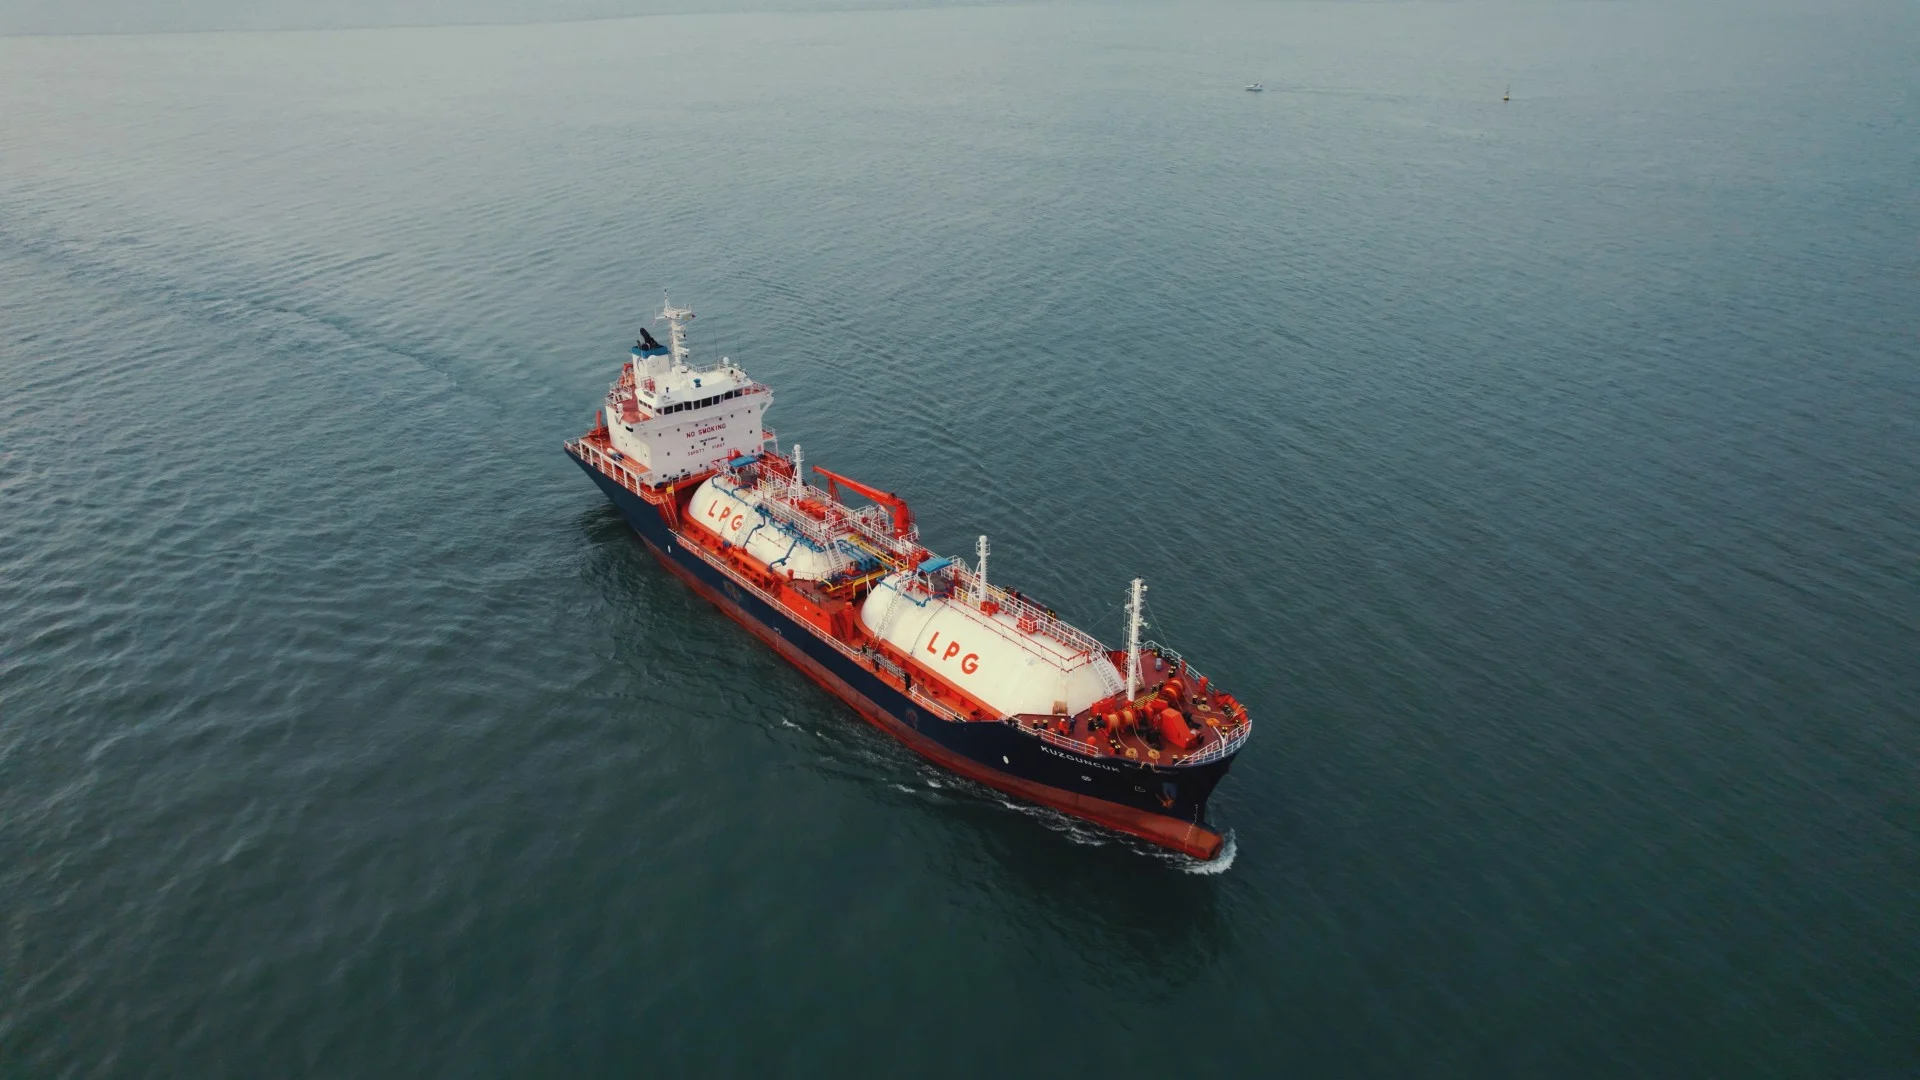
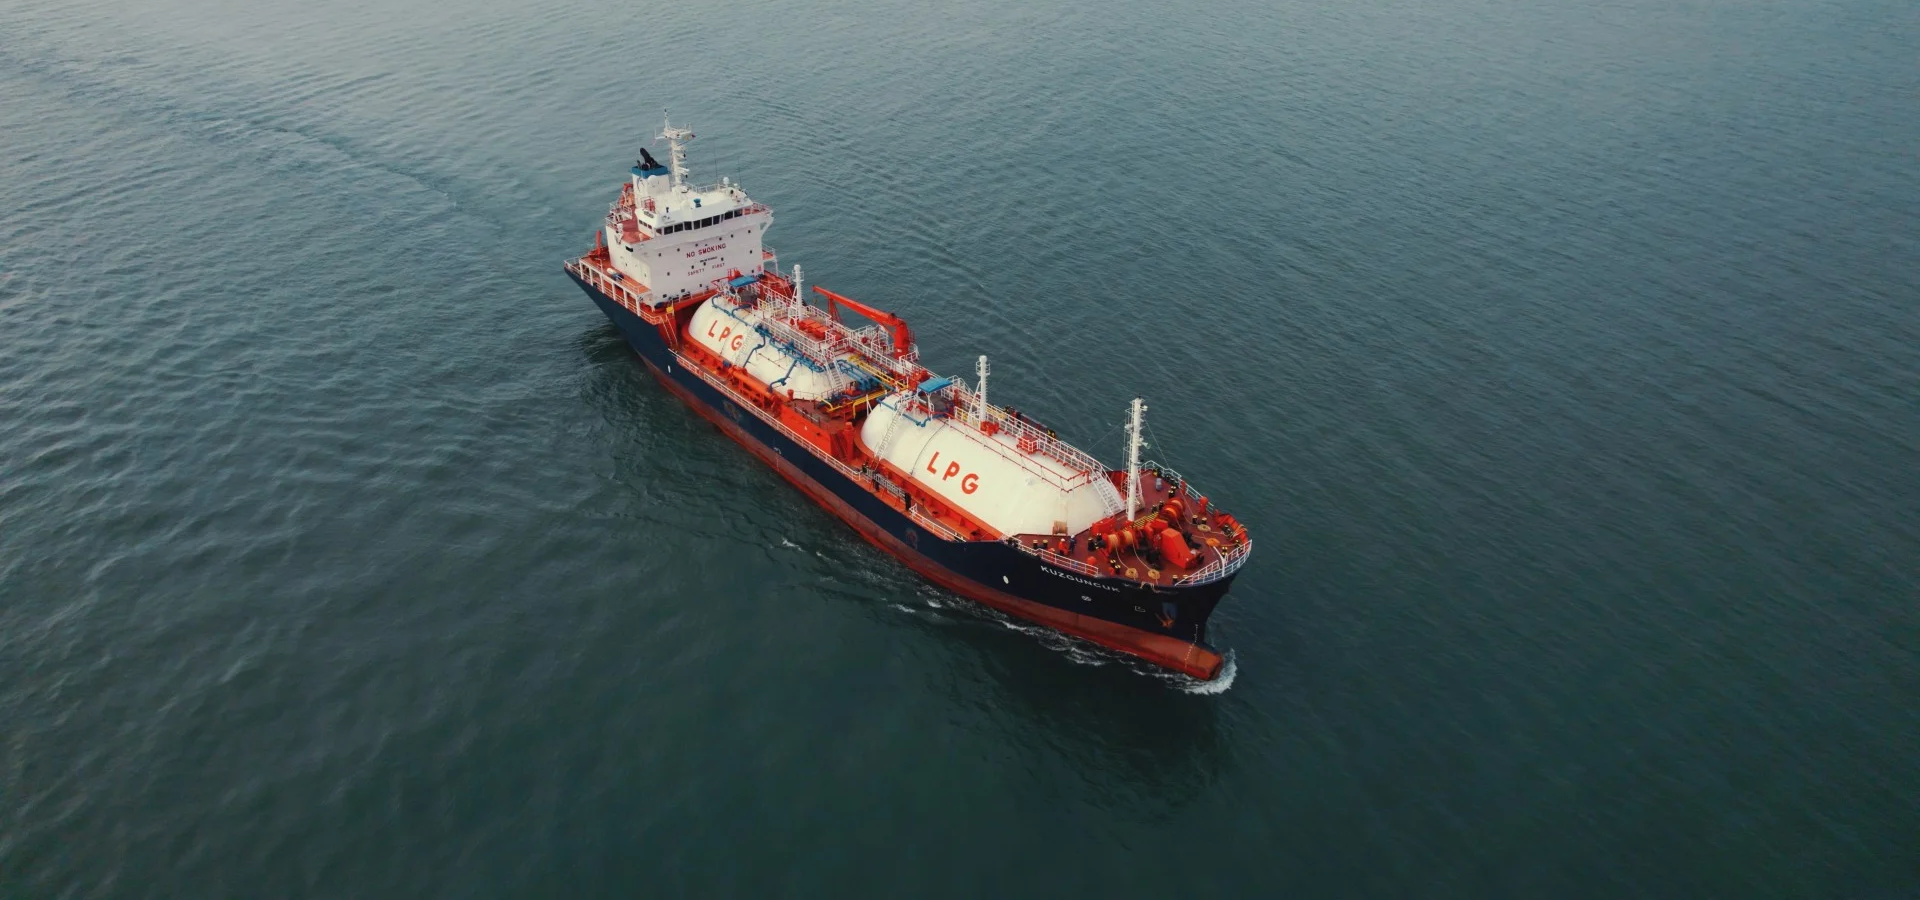
Auto-update: fetch new articles and rebuild site

diff --git a/docs/index.html b/docs/index.html
@@ -33,7 +33,7 @@
   <div class="titleblock-meta">
     <span>BY ΚΩΝΣΤΑΝΤΙΝΟΣ ΜΠΟΤΣΑΡΑΚΟΣ</span>
     <span>SOURCES: GR / INTL</span>
-    <span>UPDATED 17 Jul 2026, 16:18 UTC</span>
+    <span>UPDATED 17 Jul 2026, 16:24 UTC</span>
     <span>120 ENTRIES LOGGED</span>
   </div>
 
@@ -1402,7 +1402,7 @@
 </main>
 
 <footer class="revision-note">
-  <p>Compiled automatically from RSS feeds &amp; summarized with Claude. Last revision 17 Jul 2026, 16:18 UTC.</p>
+  <p>Compiled automatically from RSS feeds &amp; summarized with Claude. Last revision 17 Jul 2026, 16:24 UTC.</p>
 </footer>
 
 <script>